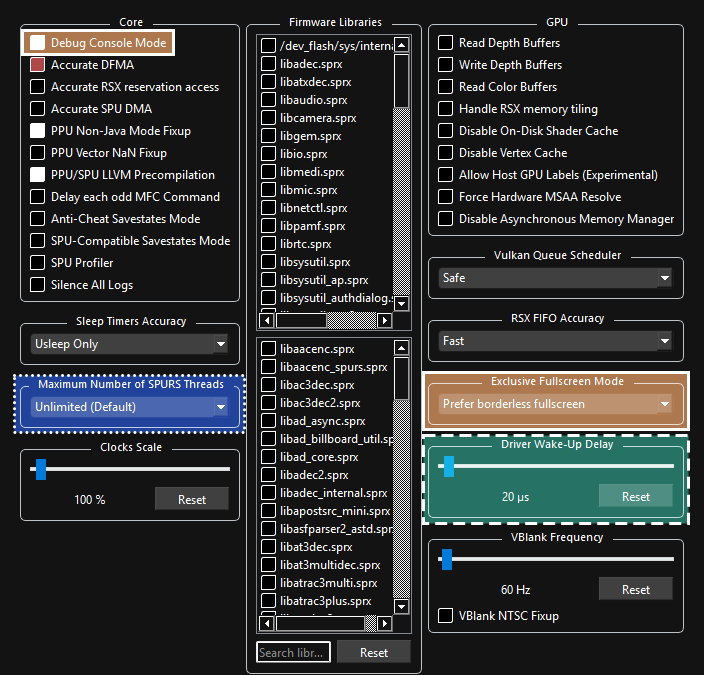
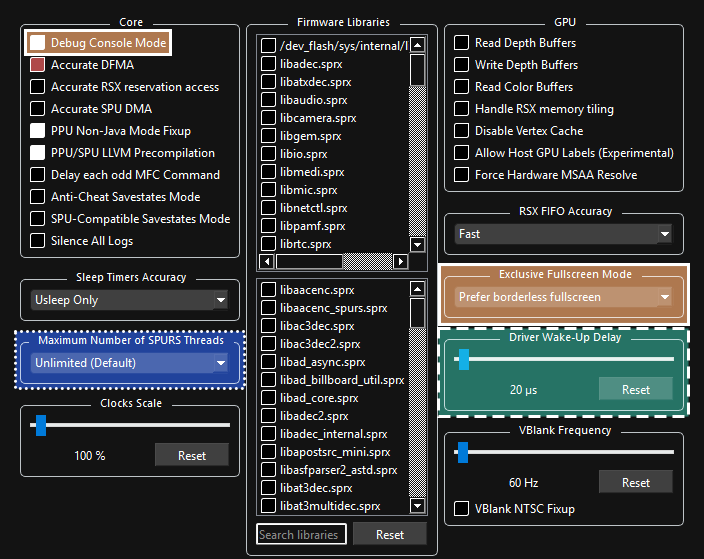
Update RPCS3 Custom Config Pics
- RPCS3 updated and moved some stuff around in the Custom Configuration. All images were redone to reflect the new changes.

- Added a unique image for Mustang/Squier MIDI setups.

- Also added some warnings to Xbox 360 pads, due to Yeszo pointing them out.

- Change Custom Configuration profiles to be a bit better. Also disable automatic fullscreen. I might change this.

diff --git a/pages/english/instruments/guitars/360-gh-xplorer.md b/pages/english/instruments/guitars/360-gh-xplorer.md
@@ -59,17 +59,17 @@ This is so you can change configuration profiles in case you want to play games 
 	![A screenshot of Windows showing the search results of joy.cpl.](https://rb3pc.milohax.org/images/instruments/xtra/gen/joycpl.png "Set up USB game controllers")
 	2. Select "`Guitar Hero X-plorer`" then click on "`Properties`".  
     ![A screenshot of Windows's Game Controllers Setup.](https://rb3pc.milohax.org/images/instruments/xtra/xplorer/joy1.png "Game Controllers")
-	3. Go to the Settings tab.  
+	3. Go to the "`Settings`" tab.  
     ![A screenshot of Windows's Game Controllers Setup.](https://rb3pc.milohax.org/images/instruments/xtra/xplorer/joy2.png "Game Controllers")
 	4. Hold the guitar at a 45 degree angle. This is halfway between a neck at level and full tilt.  
     ![A screenshot of Windows's Game Controllers Setup.](https://rb3pc.milohax.org/images/instruments/xtra/xplorer/gtr45.png "Game Controllers")
-	5. While holding the guitar at this angle, click "Calibrate."  
+	5. While holding the guitar at this angle, click "`Calibrate`."  
     ![A screenshot of Windows's Game Controllers Setup.](https://rb3pc.milohax.org/images/instruments/xtra/xplorer/joy3.png "Game Controllers")
-	6. Click "Next" on the D-Pad screen with no buttons held.  
+	6. Click "`Next`" on the D-Pad screen with no buttons held.  
     ![A screenshot of Windows's Game Controllers Setup.](https://rb3pc.milohax.org/images/instruments/xtra/xplorer/joy5.png "Game Controllers")
-	7. On the next screen, press the whammy all the way in then release it, then click "Next."  
+	7. On the next screen, press the whammy all the way in then release it, then click "`Next`."  
     ![A screenshot of Windows's Game Controllers Setup.](https://rb3pc.milohax.org/images/instruments/xtra/xplorer/joy6.png "Game Controllers")
-	8. On the next screen, move the guitar to full tilt position, then click "Next."  
+	8. On the next screen, move the guitar to full tilt position, then click "`Next`."  
     ![A screenshot of Windows's Game Controllers Setup.](https://rb3pc.milohax.org/images/instruments/xtra/xplorer/gtr90.png "Game Controllers")  
     ![A screenshot of Windows's Game Controllers Setup.](https://rb3pc.milohax.org/images/instruments/xtra/xplorer/joy7.png "Game Controllers")
 

diff --git a/pages/espanol/instrumentos/protarras/midi-strat.md b/pages/espanol/instrumentos/protarras/midi-strat.md
@@ -53,7 +53,7 @@ Decide cual manera es mas conveniente para ti y conecta tu guitarra pro a tu com
 
 ![Una captura del menú de clic derecho de RPCS3, mostrando "Change Custom Configuration" (Cambiar configuración personalizada) resaltado.](https://rb3pc.milohax.org/images/cust/rpcs3customconfigchange.png "Change Custom Configuration")
 
-![Una captura de la configuración personalizada de I/O de Rock Band 3, mostrando "Emulated MIDI Devices", tipo de dispositivo y selección de dispositivos resaltados en cuadros bronceados con contornos sólidos.](https://rb3pc.milohax.org/images/cust/io.png "I/O")
+![Una captura de la configuración personalizada de I/O de Rock Band 3, mostrando "Emulated MIDI Devices", tipo de dispositivo y selección de dispositivos resaltados en cuadros bronceados con contornos sólidos.](https://rb3pc.milohax.org/images/cust/iog.png "I/O")
 
 * ![Un cuadro bronceado con un contorno solido.](https://rb3pc.milohax.org/images/cust/smalltan.png "Un cuadrado bronceado.") :
 	* 🎸 **Cambia tu "Emulated MIDI type"** (Tipo de MIDI emulado) **de "Keyboard"** (teclado) **a "Guitar (17 Frets)"** (guitarra (17 trastes)) **si tienes una guitarra Pro Mustang, o “Guitar (22 Frets)”** (guitarra (22 trastes)) **si tienes una guitarra Pro Squier, luego selecciona tu interfaz MIDI a USB en el menú desplegable junto a él.**

diff --git a/pages/espanol/instrumentos/protarras/ps3-mustang.md b/pages/espanol/instrumentos/protarras/ps3-mustang.md
@@ -55,7 +55,7 @@ Después de eso, **haz click derecho en Rock Band 3** en RPCS3, y luego en **"Ch
 
 ![Una captura del menú de clic derecho de RPCS3, mostrando "Change Custom Configuration" (Cambiar configuración personalizada) resaltado.](https://rb3pc.milohax.org/images/cust/rpcs3customconfigchange.png "Change Custom Configuration")
 
-![Una captura de la configuración personalizada de I/O de Rock Band 3, mostrando "Emulated MIDI Devices", tipo de dispositivo y selección de dispositivos resaltados en cuadros bronceados con contornos sólidos.](https://rb3pc.milohax.org/images/cust/io.png "I/O")
+![Una captura de la configuración personalizada de I/O de Rock Band 3, mostrando "Emulated MIDI Devices", tipo de dispositivo y selección de dispositivos resaltados en cuadros bronceados con contornos sólidos.](https://rb3pc.milohax.org/images/cust/iog.png "I/O")
 
 * ![Un cuadro bronceado con un contorno solido.](https://rb3pc.milohax.org/images/cust/smalltan.png "Un cuadrado bronceado.") :
 	* 🎸 **Cambia tu "Emulated MIDI type"** (Tipo de MIDI emulado) **de "Keyboard"** (teclado) **a "Guitar (17 Frets)"** (guitarra (17 trastes)) **si tienes una guitarra Pro Mustang, o “Guitar (22 Frets)”** (guitarra (22 trastes)) **si tienes una guitarra Pro Squier, luego selecciona tu interfaz MIDI a USB en el menú desplegable junto a él.**

diff --git a/pages/english/instruments/protars/midi-strat.md b/pages/english/instruments/protars/midi-strat.md
@@ -53,7 +53,7 @@ Find whichever way is the most convenient for you then connect your Rock Band Pr
 
 ![A screenshot of RPCS3's right click menu, showing "Change Custom Configuration" highlighted](https://rb3pc.milohax.org/images/cust/rpcs3customconfigchange.png "Change Custom Configuration")
 
-![A screenshot of Rock Band 3's I/O custom settings, showing Emulated MIDI Devices, device type, and device selection highlighted in tan with a solid outline.](https://rb3pc.milohax.org/images/cust/io.png "I/O")
+![A screenshot of Rock Band 3's I/O custom settings, showing Emulated MIDI Devices, device type, and device selection highlighted in tan with a solid outline.](https://rb3pc.milohax.org/images/cust/iog.png "I/O")
 
 * ![A tan square with a solid outline](https://rb3pc.milohax.org/images/cust/smalltan.png "Tan Square") :
 	* 🎸 **Change your “Emulated MIDI type” from “Keyboard” to “Guitar (17 Frets)” if you have a Mustang Pro Guitar, or “Guitar (22 Frets)” if you have a Squier Pro Guitar, then select your MIDI to USB interface in the drop-down menu next to it.**

diff --git a/pages/english/instruments/protars/ps3-mustang.md b/pages/english/instruments/protars/ps3-mustang.md
@@ -55,7 +55,7 @@ After that, **right click on Rock Band 3** in RPCS3, then click on “**Change C
 
 ![A screenshot of RPCS3's right click menu, showing "Change Custom Configuration" highlighted](https://rb3pc.milohax.org/images/cust/rpcs3customconfigchange.png "Change Custom Configuration")
 
-![A screenshot of Rock Band 3's I/O custom settings, showing Emulated MIDI Devices, device type, and device selection highlighted in tan with a solid outline.](https://rb3pc.milohax.org/images/cust/io.png "I/O")
+![A screenshot of Rock Band 3's I/O custom settings, showing Emulated MIDI Devices, device type, and device selection highlighted in tan with a solid outline.](https://rb3pc.milohax.org/images/cust/iog.png "I/O")
 
 * ![A tan square with a solid outline](https://rb3pc.milohax.org/images/cust/smalltan.png "Tan Square") :
 	* 🎸 **Change your “Emulated MIDI type” from “Keyboard” to “Guitar (17 Frets)” if you have a Mustang Pro Guitar, or “Guitar (22 Frets)” if you have a Squier Pro Guitar, then select your MIDI to USB interface in the drop-down menu next to it.**

diff --git a/pages/espanol/instrumentos/protarras/360-mustang.md b/pages/espanol/instrumentos/protarras/360-mustang.md
@@ -53,7 +53,7 @@ Después de eso, **haz click derecho en Rock Band 3** en RPCS3, y luego en **"Ch
 
 ![Una captura del menú de clic derecho de RPCS3, mostrando "Change Custom Configuration" (Cambiar configuración personalizada) resaltado.](https://rb3pc.milohax.org/images/cust/rpcs3customconfigchange.png "Change Custom Configuration")
 
-![Una captura de la configuración personalizada de I/O de Rock Band 3, mostrando "Emulated MIDI Devices", tipo de dispositivo y selección de dispositivos resaltados en cuadros bronceados con contornos sólidos.](https://rb3pc.milohax.org/images/cust/io.png "I/O")
+![Una captura de la configuración personalizada de I/O de Rock Band 3, mostrando "Emulated MIDI Devices", tipo de dispositivo y selección de dispositivos resaltados en cuadros bronceados con contornos sólidos.](https://rb3pc.milohax.org/images/cust/iog.png "I/O")
 
 * ![Un cuadro bronceado con un contorno solido.](https://rb3pc.milohax.org/images/cust/smalltan.png "Un cuadrado bronceado.") :
 

diff --git a/pages/espanol/instrumentos/protarras/wii-mustang.md b/pages/espanol/instrumentos/protarras/wii-mustang.md
@@ -54,7 +54,7 @@ Después de eso, **haz click derecho en Rock Band 3** en RPCS3, y luego en **"Ch
 
 ![Una captura del menú de clic derecho de RPCS3, mostrando "Change Custom Configuration" (Cambiar configuración personalizada) resaltado.](https://rb3pc.milohax.org/images/cust/rpcs3customconfigchange.png "Change Custom Configuration")
 
-![Una captura de la configuración personalizada de I/O de Rock Band 3, mostrando "Emulated MIDI Devices", tipo de dispositivo y selección de dispositivos resaltados en cuadros bronceados con contornos sólidos.](https://rb3pc.milohax.org/images/cust/io.png "I/O")
+![Una captura de la configuración personalizada de I/O de Rock Band 3, mostrando "Emulated MIDI Devices", tipo de dispositivo y selección de dispositivos resaltados en cuadros bronceados con contornos sólidos.](https://rb3pc.milohax.org/images/cust/iog.png "I/O")
 
 * ![Un cuadro bronceado con un contorno solido.](https://rb3pc.milohax.org/images/cust/smalltan.png "Un cuadrado bronceado.") :
 

diff --git a/pages/english/instruments/protars/360-mustang.md b/pages/english/instruments/protars/360-mustang.md
@@ -53,7 +53,7 @@ After that, **right click on Rock Band 3** in RPCS3, then click on “**Change C
 
 ![A screenshot of RPCS3's right click menu, showing "Change Custom Configuration" highlighted](https://rb3pc.milohax.org/images/cust/rpcs3customconfigchange.png "Change Custom Configuration")
 
-![A screenshot of Rock Band 3's I/O custom settings, showing Emulated MIDI Devices, device type, and device selection highlighted in tan with a solid outline.](https://rb3pc.milohax.org/images/cust/io.png "I/O")
+![A screenshot of Rock Band 3's I/O custom settings, showing Emulated MIDI Devices, device type, and device selection highlighted in tan with a solid outline.](https://rb3pc.milohax.org/images/cust/iog.png "I/O")
 
 * ![A tan square with a solid outline](https://rb3pc.milohax.org/images/cust/smalltan.png "Tan Square") :
 

diff --git a/pages/english/instruments/protars/wii-mustang.md b/pages/english/instruments/protars/wii-mustang.md
@@ -53,7 +53,7 @@ After that, **right click on Rock Band 3** in RPCS3, then click on “**Change C
 
 ![A screenshot of RPCS3's right click menu, showing "Change Custom Configuration" highlighted](https://rb3pc.milohax.org/images/cust/rpcs3customconfigchange.png "Change Custom Configuration")
 
-![A screenshot of Rock Band 3's I/O custom settings, showing Emulated MIDI Devices, device type, and device selection highlighted in tan with a solid outline.](https://rb3pc.milohax.org/images/cust/io.png "I/O")
+![A screenshot of Rock Band 3's I/O custom settings, showing Emulated MIDI Devices, device type, and device selection highlighted in tan with a solid outline.](https://rb3pc.milohax.org/images/cust/iog.png "I/O")
 
 * ![A tan square with a solid outline](https://rb3pc.milohax.org/images/cust/smalltan.png "Tan Square") :
 

diff --git a/pages/espanol/instrumentos/mandos/360-pad.md b/pages/espanol/instrumentos/mandos/360-pad.md
@@ -14,7 +14,8 @@ toc: false
 
 ## NOTAS
 
-* **Necesitas un receptor USB Inalámbrico de Xbox 360 para Windows si quieres conectar esto a tu computadora**.
+* **Mandos de Xbox 360 inalámbricos requieren un receptor USB Inalámbrico de Xbox 360 para Windows para conectarse a tu computadora**.
+    * El kit de "Play and Charge" (Cargar y Jugar) solo funciona para cargar, no para conectar
 
 ![Receptor USB Inalámbrico Gamepad PC Adaptador Para Xbox 360](https://rb3pc.milohax.org/images/btns/ctrls/360/receiver.png "Receptor USB Inalámbrico Gamepad PC Adaptador Para Xbox 360")
 

diff --git a/pages/english/instruments/gamepads/360-pad.md b/pages/english/instruments/gamepads/360-pad.md
@@ -14,7 +14,8 @@ toc: false
 
 ## NOTES
 
-* This controller **requires an Xbox 360 Wireless Gaming Receiver for Windows to connect to your computer.**
+* **Wireless Xbox 360 controllers require an Xbox 360 Wireless Gaming Receiver for Windows to connect to your computer.**
+    * "Play and Charge" are simply to charge controllers, not to connect to your computer.
 
 ![Xbox 360 Wireless Gaming Receiver for Windows](https://rb3pc.milohax.org/images/btns/ctrls/360/receiver.png "Xbox 360 Wireless Gaming Receiver for Windows")
 
